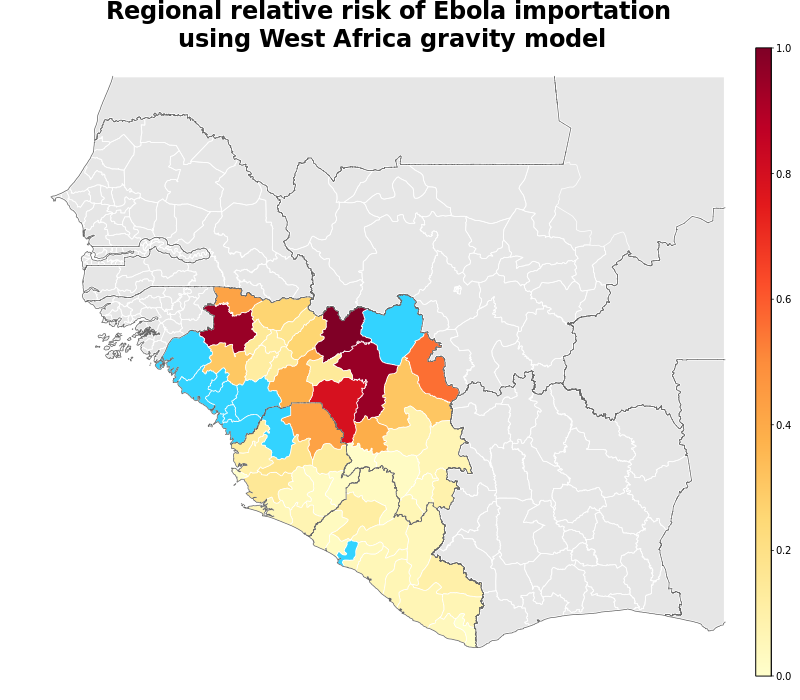
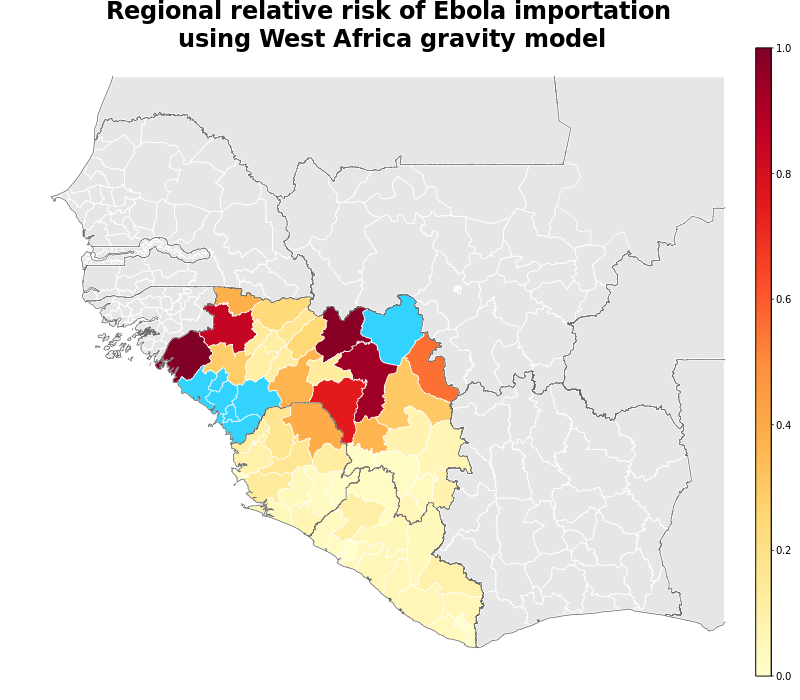
Updated WHO data and regional risk plots as of 2015-04-16

Changed region(s): [[0.1875, 0.42, 0.3438, 0.54], [0.3125, 0.57, 0.375, 0.66], [0.4062, 0.78, 0.4688, 0.81]]

diff --git a/local-risk.md b/local-risk.md
@@ -11,7 +11,7 @@ The aim of this analysis is to produce a regional, district level metric of the 
 
 [Risk-doc]: http://seeg-oxford.github.io/ebola-spread/local-risk-doc
 
-### Latest data as of  2015-04-15
+### Latest data as of  2015-04-16
 
 <a href="images/regional_prediction_weighted_large.png"><img src="images/regional_prediction_weighted.png" /></a>
 Predicted relative risk of importation of EVD cases from districts with reported cases in the last <b>21</b> days using the weighted movement models. Dark red indicates higher risk of importation. Note that this does not represent a prediction of the number of new cases being reported in the future. Districts with reported cases are coloured blue to prevent skew.
